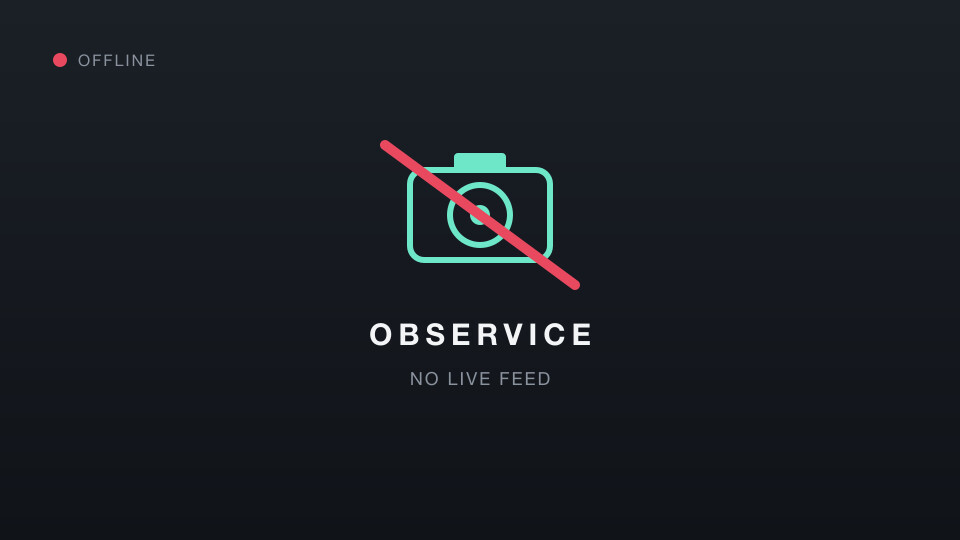
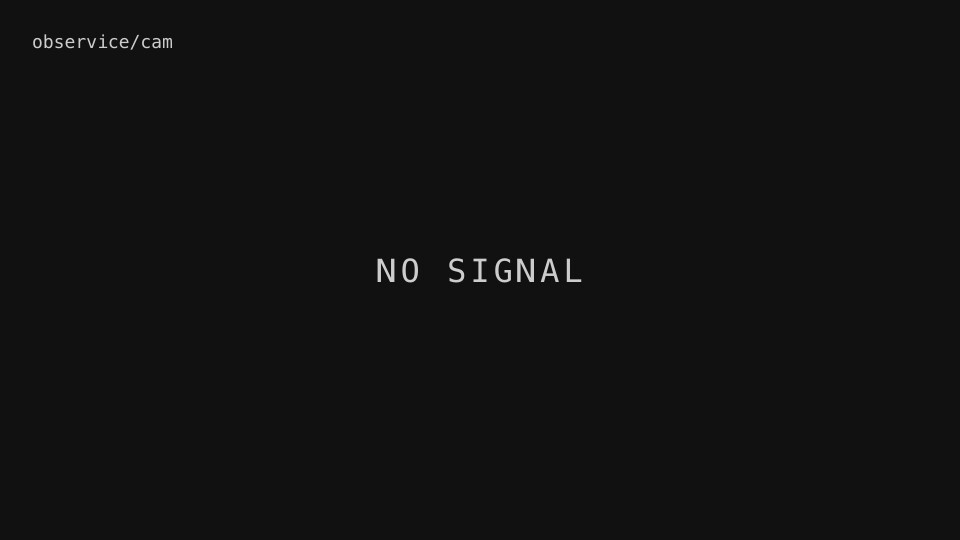
update

diff --git a/observice/mqtt_bridge.py b/observice/mqtt_bridge.py
@@ -8,8 +8,6 @@ from observice.config import Config, save_config
 
 logger = logging.getLogger("observice")
 
-DEVICE_ID = "observice_garage"
-
 # One entry per HA entity this bridge exposes. "extra" holds fields specific
 # to that HA component (device_class, unit_of_measurement, min/max, ...).
 ENTITIES = [
@@ -18,6 +16,13 @@ ENTITIES = [
         "object_id": "motion",
         "name": "Motion",
         "extra": {"device_class": "motion"},
+        "settable": False,
+    },
+    {
+        "component": "sensor",
+        "object_id": "log",
+        "name": "Log",
+        "extra": {"entity_category": "diagnostic", "icon": "mdi:text-box-outline"},
         "settable": False,
     },
     {
@@ -65,21 +70,32 @@ FIELD_MAP = {
 }
 
 
-def _device_info() -> dict:
-    return {"identifiers": [DEVICE_ID], "name": "Observice Garage", "manufacturer": "Observice"}
+class MqttLogHandler(logging.Handler):
+    """Mirrors log records to the HA "Log" sensor; HA's history keeps past lines."""
+
+    def __init__(self, client: mqtt.Client, topic: str):
+        super().__init__(logging.INFO)
+        self.client = client
+        self.topic = topic
+        self.setFormatter(logging.Formatter("%(levelname)s %(message)s"))
+
+    def emit(self, record: logging.LogRecord) -> None:
+        # HA rejects sensor states longer than 255 chars
+        self.client.publish(self.topic, self.format(record)[:255], retain=True)
 
 
 def _discovery(entity: dict, base_topic: str) -> tuple[str, str]:
+    device_id = base_topic.replace("/", "_")
     object_id = entity["object_id"]
-    topic = f"homeassistant/{entity['component']}/{DEVICE_ID}/{object_id}/config"
+    topic = f"homeassistant/{entity['component']}/{device_id}/{object_id}/config"
     payload = {
         "name": entity["name"],
-        "unique_id": f"{DEVICE_ID}_{object_id}",
+        "unique_id": f"{device_id}_{object_id}",
         "state_topic": f"{base_topic}/{object_id}/state",
         "availability_topic": f"{base_topic}/status",
         "payload_available": "online",
         "payload_not_available": "offline",
-        "device": _device_info(),
+        "device": {"identifiers": [device_id], "name": f"Observice {base_topic}", "manufacturer": "Observice"},
         **entity["extra"],
     }
     if entity["settable"]:
@@ -101,12 +117,15 @@ class MqttBridge:
         self.client.will_set(f"{self.base_topic}/status", "offline", retain=True)
         self.client.on_connect = self._on_connect
         self.client.on_message = self._on_message
+        self.log_handler = MqttLogHandler(self.client, f"{self.base_topic}/log/state")
 
     def connect(self) -> None:
         self.client.connect(self.config.mqtt.host, self.config.mqtt.port)
         self.client.loop_start()
+        logger.addHandler(self.log_handler)
 
     def close(self) -> None:
+        logger.removeHandler(self.log_handler)
         self.client.publish(f"{self.base_topic}/status", "offline", retain=True)
         self.client.loop_stop()
         self.client.disconnect()

diff --git a/tests/test_mqtt_bridge.py b/tests/test_mqtt_bridge.py
@@ -1,16 +1,17 @@
 import json
+import logging
 
 from observice.config import Config
-from observice.mqtt_bridge import ENTITIES, FIELD_MAP, _discovery
+from observice.mqtt_bridge import ENTITIES, FIELD_MAP, MqttLogHandler, _discovery
 
 
 def test_discovery_topic_and_payload_shape():
     motion_entity = next(e for e in ENTITIES if e["object_id"] == "motion")
-    topic, payload_json = _discovery(motion_entity, "observice/garage")
+    topic, payload_json = _discovery(motion_entity, "observice/camera")
     payload = json.loads(payload_json)
 
-    assert topic == "homeassistant/binary_sensor/observice_garage/motion/config"
-    assert payload["state_topic"] == "observice/garage/motion/state"
+    assert topic == "homeassistant/binary_sensor/observice_camera/motion/config"
+    assert payload["state_topic"] == "observice/camera/motion/state"
     assert "command_topic" not in payload  # motion is read-only
 
 
@@ -21,7 +22,23 @@ def test_field_map_setter_updates_config():
     assert config.motion.enabled is False
 
 
+def test_log_handler_publishes_truncated_line():
+    published = []
+
+    class FakeClient:
+        def publish(self, topic, payload, retain=False):
+            published.append((topic, payload))
+
+    handler = MqttLogHandler(FakeClient(), "observice/camera/log/state")
+    handler.emit(logging.LogRecord("observice", logging.INFO, "", 0, "x" * 300, None, None))
+
+    topic, payload = published[0]
+    assert topic == "observice/camera/log/state"
+    assert payload.startswith("INFO x") and len(payload) == 255
+
+
 if __name__ == "__main__":
     test_discovery_topic_and_payload_shape()
     test_field_map_setter_updates_config()
+    test_log_handler_publishes_truncated_line()
     print("ok")

diff --git a/observice/main.py b/observice/main.py
@@ -1,6 +1,7 @@
 import asyncio
 import logging
 import signal
+import socket
 import tempfile
 import threading
 from pathlib import Path
@@ -20,7 +21,18 @@ CONFIG_PATH = Path("assets/config.yaml")
 logger = setup_logger()
 
 
+def lan_ip() -> str:
+    # UDP connect sends nothing; it just makes the OS pick the outbound interface
+    with socket.socket(socket.AF_INET, socket.SOCK_DGRAM) as s:
+        try:
+            s.connect(("10.255.255.255", 1))
+            return s.getsockname()[0]
+        except OSError:
+            return socket.gethostname()
+
+
 async def main() -> None:
+    print(Path("assets/ascii_name.txt").read_text())
     signal.signal(signal.SIGTERM, signal.default_int_handler)
 
     config = load_config(CONFIG_PATH)
@@ -28,7 +40,7 @@ async def main() -> None:
     rtsp = RTSPServer(config.camera)
     glib_loop = GLib.MainLoop()
     threading.Thread(target=glib_loop.run, daemon=True).start()
-    logger.info("RTSP stream ready at rtsp://<this-host>:%s/cam", rtsp.port)
+    logger.info("RTSP stream ready at rtsp://%s:%s/cam", lan_ip(), rtsp.port)
 
     bridge = MqttBridge(config, CONFIG_PATH) if config.mqtt.enabled else None
     if bridge:

diff --git a/observice/config.py b/observice/config.py
@@ -10,9 +10,7 @@ class CameraConfig:
     height: int = 720
     framerate: int = 30
     rtsp_port: int = 8554
-    device: str = (
-        ""  # Linux only: v4l2 device path, e.g. /dev/video2. Empty = /dev/video0.
-    )
+    device: str = ""  # Linux only: v4l2 device path, e.g. /dev/video2. Empty = /dev/video0.
 
 
 @dataclass
@@ -24,7 +22,7 @@ class MotionConfig:
 
 @dataclass
 class DiscordConfig:
-    enabled: bool = True
+    enabled: bool = False
     webhook_url: str = ""
     token: str = ""  # only needed for scripts/download_discord_images.py
     listening_users: list[int] = field(default_factory=list)
@@ -37,7 +35,7 @@ class MqttConfig:
     port: int = 8123
     username: str = ""
     password: str = ""
-    base_topic: str = "observice/garage"
+    base_topic: str = "observice/camera"
 
 
 @dataclass

diff --git a/README.md b/README.md
@@ -1,8 +1,10 @@
 # Observice
 
+<img src="assets/observice.svg" width="96" alt="Observice icon">
+
 A small, self-hosted camera-watching service: serves a camera as an RTSP stream, watches it for motion, notifies you when something changes, and integrates with Home Assistant over MQTT.
 
-It's built around one camera in one garage in this repo's default config, but nothing about it is hardcoded to that — see **Make it yours** below for what to change to point it at a different camera, a different notification channel, or a different room/device entirely in Home Assistant.
+Point it at any camera — a room, a door, a 3D printer — see **Make it yours** below for what to change.
 
 ## How it fits together
 
@@ -69,17 +71,17 @@ sudo crontab -e
 | `mqtt`    | `enabled`        | Turn the Home Assistant/MQTT bridge on/off                            |
 |           | `host/port`      | Your MQTT broker (the HA "Mosquitto broker" add-on, typically)        |
 |           | `username/password` | Broker credentials, if required                                    |
-|           | `base_topic`     | MQTT topic prefix (default `observice/garage`) — rename this per camera if you run more than one instance |
+|           | `base_topic`     | MQTT topic prefix (default `observice/camera`) — also names the HA device; use a unique one per instance, e.g. `observice/frontdoor` |
 
 ## Home Assistant setup
 
-1. **Camera**: in HA, add a camera entity pointing at the RTSP stream — no Observice-side setup needed:
+1. **Camera**: the video doesn't go over MQTT — HA pulls the RTSP stream straight from Observice. Add a camera entity pointing at it:
    ```yaml
    camera:
      - platform: generic
        stream_source: rtsp://<host-ip>:8554/cam
    ```
-2. **MQTT**: make sure HA's MQTT integration is configured against the same broker as `mqtt.host`/`mqtt.port` in your config. Once Observice connects, it auto-publishes discovery entities under `homeassistant/...` — a motion sensor, a "Motion Detection" switch, a "Discord Notifications" switch, and a "Motion Check Interval" number will appear in HA without any manual YAML.
+2. **MQTT**: make sure HA's MQTT integration is configured against the same broker as `mqtt.host`/`mqtt.port` in your config. Once Observice connects, it auto-publishes discovery entities under `homeassistant/...` — a motion sensor, a "Log" sensor (latest log line; past lines in its history), a "Motion Detection" switch, a "Discord Notifications" switch, and a "Motion Check Interval" number will appear in HA without any manual YAML.
 3. Flipping those switches/number in HA writes straight back to `assets/config.yaml` on the host.
 
 ## Discord image downloader
@@ -97,7 +99,7 @@ Everything here is deliberately plain Python + YAML, not framework-locked, so re
 
 - **Different camera / location**: just a config change — edit `camera.device` (and `assets/config.yaml`'s `mqtt.base_topic`, so it doesn't collide with another instance) to point at a different room, printer-cam, or device. Run a second instance for a second camera.
 - **Different notification channel**: `observice/discord_notify.py` is a single `send_image()` function — swap it for a Slack webhook, a Telegram bot, an email, whatever; `observice/main.py`'s `on_motion()` callback is the one place that calls it.
-- **Different Home Assistant identity**: the device name/id HA shows ("Observice Garage") lives as `DEVICE_ID`/`_device_info()` in `observice/mqtt_bridge.py` — change those two spots if you're monitoring something other than a garage.
+- **Different Home Assistant identity**: the HA device id/name is derived from `mqtt.base_topic` — `observice/frontdoor` shows up as "Observice observice/frontdoor".
 - **Different trigger logic**: `observice/motion.py`'s `frame_changed()` is one small, pure function (frame diff vs. a threshold) — replace it with whatever detection makes sense for your use case (object detection, a specific zone, a different sensor entirely) without touching the RTSP, Discord, or MQTT pieces.
 - **More entities in HA**: `ENTITIES`/`FIELD_MAP` in `observice/mqtt_bridge.py` are a small table, not a framework — add a row to expose another setting to HA.
 
